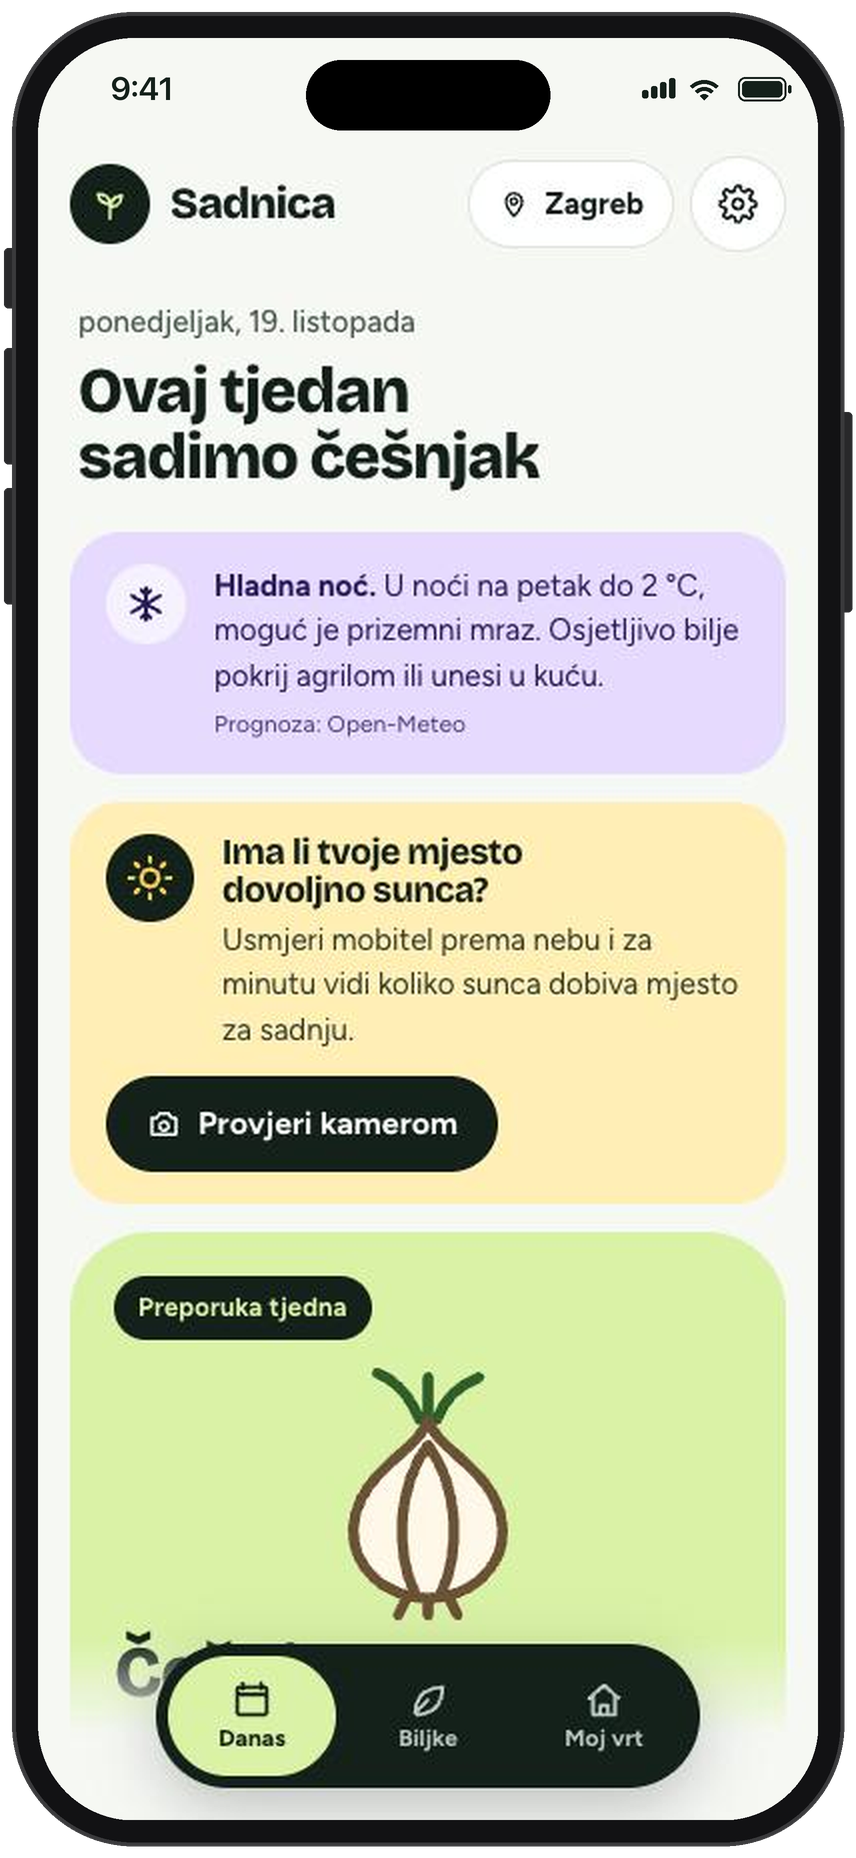
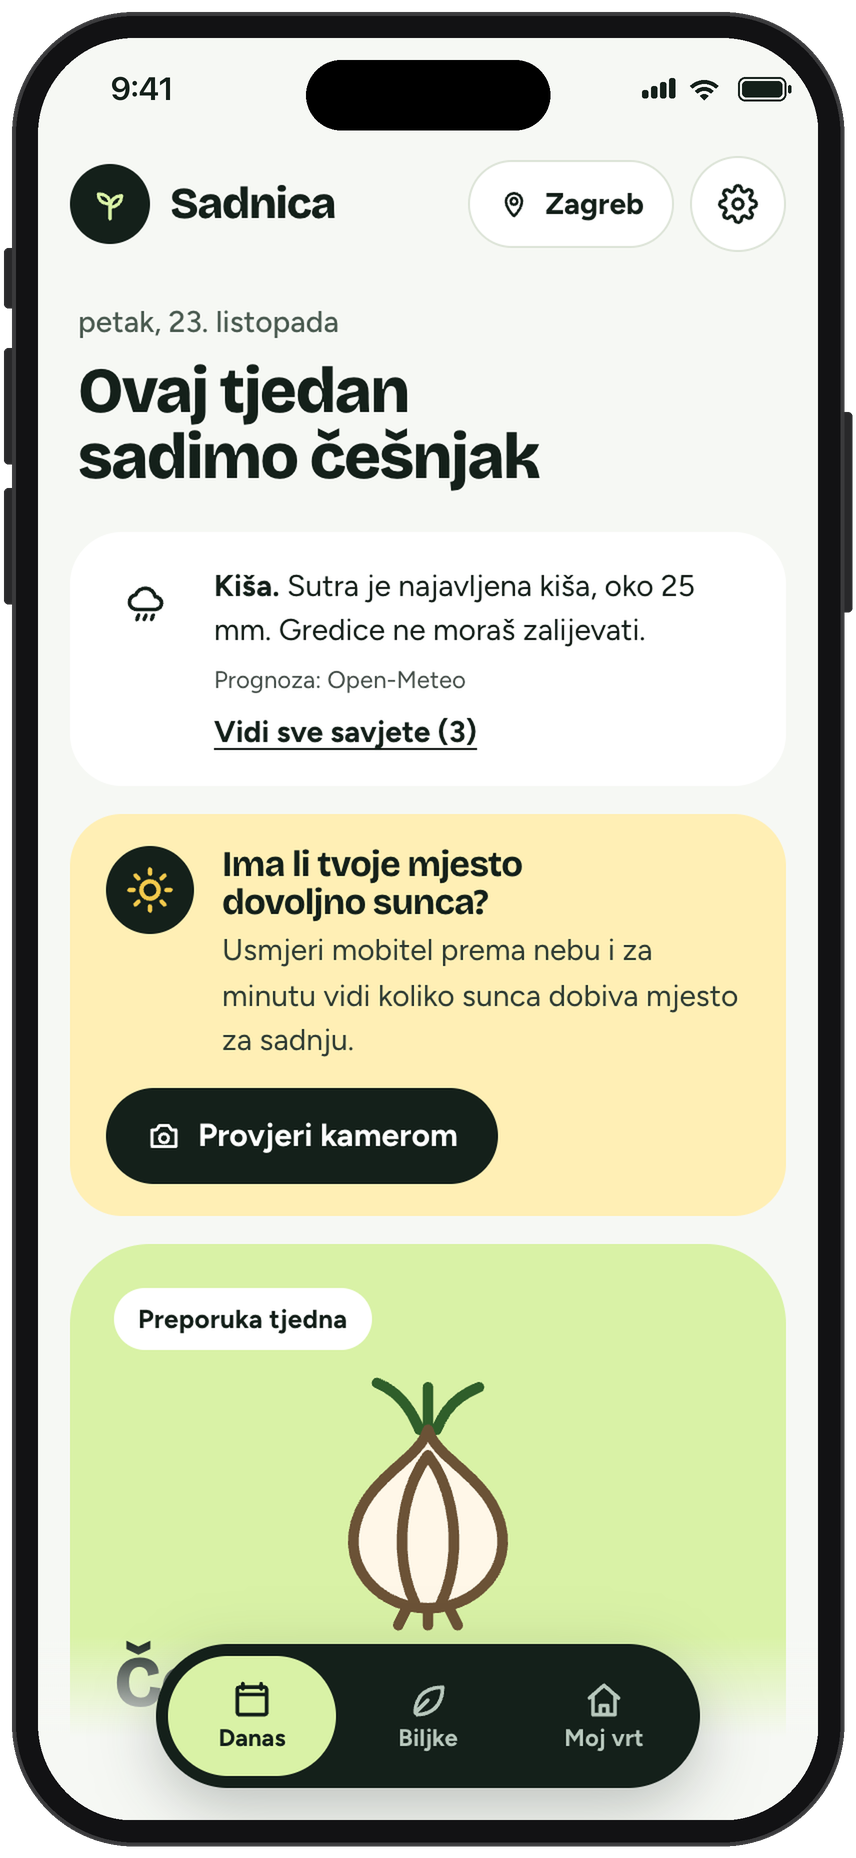
Retake the README screenshots for the current design
Sharper 2x captures of Danas, Sve biljke and Češnjak, with the new weather card,
fact tile icons and white labels.

diff --git a/README.md b/README.md
@@ -5,7 +5,7 @@ na hrvatskom, radi bez računa i bez interneta, a sve što upišeš ostaje samo 
 "Sadnica" je radni naziv (`src/lib/config.ts`).
 
 <p>
-  <img src="docs/screenshots/danas-iphone.png" alt="Danas: preporuka tjedna, upozorenje na mraz i provjera sunca kamerom" width="260">&nbsp;&nbsp;
+  <img src="docs/screenshots/danas-iphone.png" alt="Danas: savjet prema prognozi, provjera sunca kamerom i preporuka tjedna" width="260">&nbsp;&nbsp;
   <img src="docs/screenshots/biljke-iphone.png" alt="Sve biljke: katalog s pretragom i filtrima" width="260">&nbsp;&nbsp;
   <img src="docs/screenshots/biljka-iphone.png" alt="Stranica biljke: češnjak s osnovnim podacima i upozorenjem za ljubimce" width="260">
 </p>
